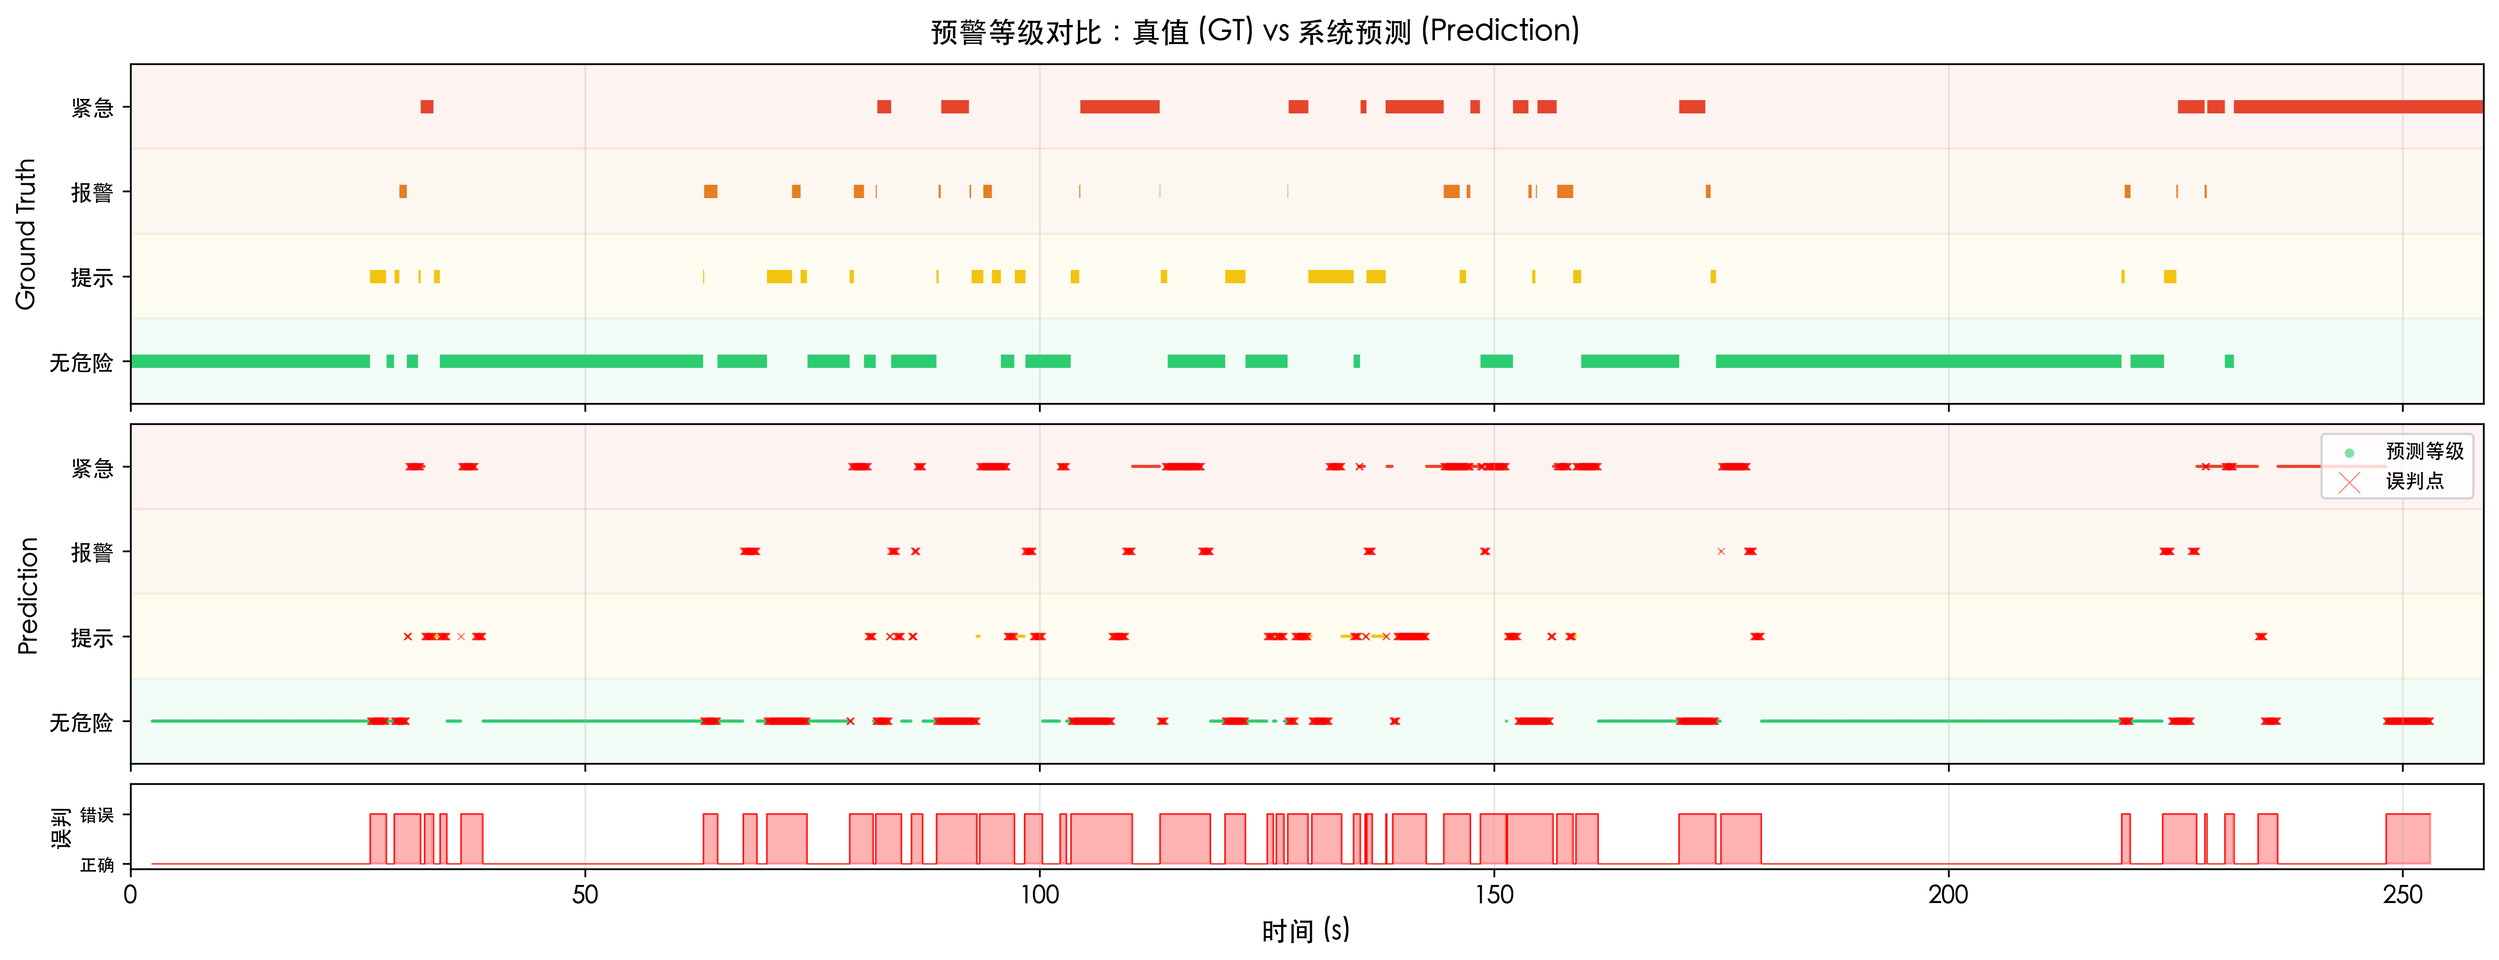
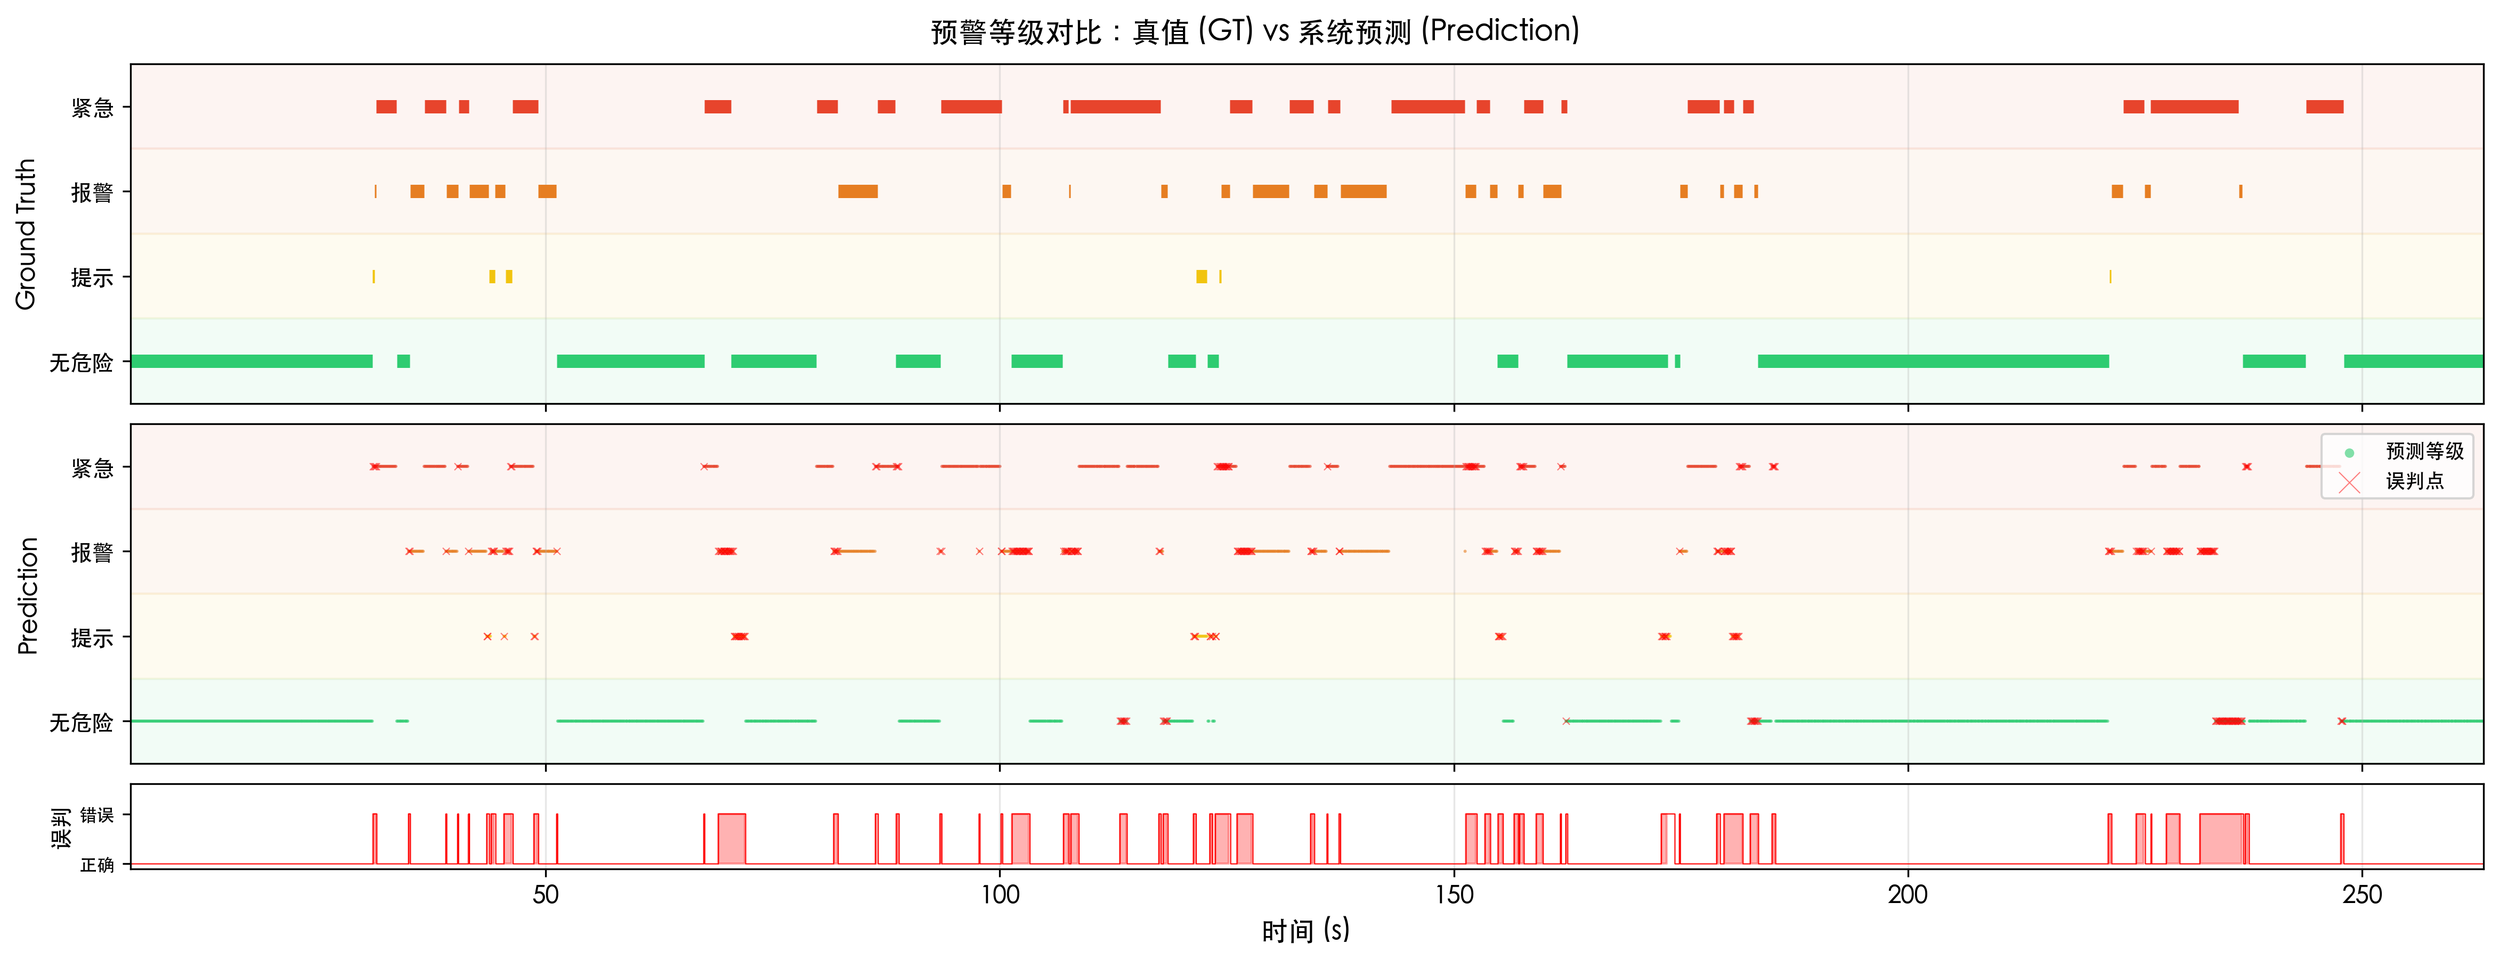
5.3优化

diff --git a/data/chap05.tex b/data/chap05.tex
@@ -246,6 +246,7 @@ F1 分数 & 84.69\% \\
 \mathrm{MAE}=\frac{1}{T}\sum_{t=1}^{T}|\hat{y}_t-y_t|
 \label{eq:mae}
 \end{equation}
+其中，等级按危险程度依次编码为：无危险~=~0、提示~=~1、报警~=~2、紧急~=~3，$|\hat{y}_t-y_t|$ 即预测等级与真值等级之间的差值绝对值。
 
 \begin{table}[htbp]
 \centering
@@ -255,23 +256,23 @@ F1 分数 & 84.69\% \\
 \hline
 \textbf{指标项} & \textbf{提示级(5.0m)} & \textbf{报警级(3.0m)} & \textbf{紧急级(1.0m)} \\
 \hline
-精确率（Precision）  & 0.5727 & 0.9012 & 0.9466 \\
-召回率（Recall）  & 0.3937 & 0.8111 & 0.9300 \\
-F1分数  & 0.4667 & 0.8538 & 0.9383 \\
+精确率（Precision）  & 57.27\% & 90.12\% & 94.66\% \\
+召回率（Recall）  & 39.37\% & 81.11\% & 93.00\% \\
+F1分数  & 46.67\% & 85.38\% & 93.83\% \\
 \hline
-分级准确率（Acc） & \multicolumn{3}{c}{0.9248} \\
-误报率（FPR） & \multicolumn{3}{c}{0.0276} \\
-漏报率（FNR） & \multicolumn{3}{c}{0.0476} \\
+分级准确率（Acc） & \multicolumn{3}{c}{92.48\%} \\
+误报率（FPR） & \multicolumn{3}{c}{2.76\%} \\
+漏报率（FNR） & \multicolumn{3}{c}{4.76\%} \\
 平均绝对误差（MAE） & \multicolumn{3}{c}{0.1232} \\
 \hline
 \end{tabular*}
 \end{table}
 
-各预警等级的判级结果统计如表~\ref{tab:ch5_d4a_static_warning}所示。从表中可以看出，静态阈值判级的整体分级准确率达0.9248，超过92\%的帧实现了精确分级，说明基于距离阈值的三级静态判级框架在真实工况下表现有效。紧急级的精确率达0.9466、召回率达0.9300、F1分数达0.9383，均为三个等级中最优，在近距离高危场景中判级置信度最高。报警级的精确率达0.9012、召回率达0.8111且F1分数达0.8538，同样处于较高水平，中间阈值判级在多数情况下能够稳定反映真实的净空状态。提示级F1为0.4667，在四个等级中相对最低，召回率仅0.3937，说明系统对提示等级的识别存在遗漏。
+各预警等级的判级结果统计如表~\ref{tab:ch5_d4a_static_warning}所示。从表中可以看出，静态阈值判级的整体分级准确率达92.48\%，说明基于距离阈值的三级静态判级框架在真实工况下表现有效。紧急级的精确率达94.66\%、召回率达93.00\%、F1分数达93.83\%，均为三个等级中最优，在近距离高危场景中判级置信度最高。报警级的精确率达90.12\%、召回率达81.11\%且F1分数达85.38\%，同样处于较高水平，中间阈值判级在多数情况下能够稳定反映真实的净空状态。提示级F1为46.67\%，在四个等级中相对最低，召回率仅39.37\%，说明系统对提示等级的识别存在遗漏。
 
-从安全预警的实际需求出发，漏报率需优先关注。系统总漏报率仅0.0476，误报率为0.0276，两者均处于低位。进一步查看混淆矩阵（表~\ref{tab:ch5_d4b_confusion_matrix}），误报主要来自：当真值为无危险时，有44帧被误判为提示级（占无危险真值样本的2.03\%），另有26帧被误判为紧急级（占1.20\%），均属小概率事件，对现场作业影响有限。漏报方面，提示级向无危险的降级共计91帧，占提示级真值样本的56.88\%，是漏报的主要来源。提示级作为三级判据中阈值最小、优先级最低的等级，其物理边界在连续净空变化中最为模糊，部分处于临界状态的净空值被系统判定为无危险属正常波动。紧急级向更低估级合计44帧，占紧急级真值样本的7.00\%，在真实施工工况的遮挡与点云缺失条件下处于合理可控范围。
+从安全预警的实际需求出发，漏报率需优先关注。系统总漏报率仅4.76\%，误报率为2.76\%，两者均处于低位。进一步查看混淆矩阵（表~\ref{tab:ch5_d4b_confusion_matrix}），误报主要来自：当真值为无危险时，有44帧被误判为提示级（占无危险真值样本的2.03\%），另有26帧被误判为紧急级（占1.20\%），均属小概率事件，对现场作业影响有限。漏报方面，提示级向无危险的降级共计91帧，占提示级真值样本的56.88\%，是漏报的主要来源。提示级作为三级判据中阈值最小、优先级最低的等级，其物理边界在连续净空变化中最为模糊，部分处于临界状态的净空值被系统判定为无危险属正常波动。紧急级向更低估级合计44帧，占紧急级真值样本的7.00\%，在真实施工工况的遮挡与点云缺失条件下处于合理可控范围。
 
-提示级的低召回率在混淆矩阵中有明确体现：其真阳性仅为63帧，假阴性合计97（91+6+0），近六成的提示级真值帧被预测为无危险。提示级（5.0~m）在三级净空判据中阈值最大、优先级最低，在连续净空变化中处于最外围的边界位置，部分处于5.0~m临界区域的净空值在测量噪声影响下被判为无危险属正常波动范围。整体分级有序误差MAE仅为0.1232，平均预测等级与真值等级之间的偏差不足0.13个等级，整体判级的有序一致性较好。
+提示级的低召回率在混淆矩阵中有明确体现：其真阳性仅为63帧，假阴性合计97（91+6+0），近六成的提示级真值帧被预测为无危险。提示级在三级净空判据中阈值最大、优先级最低，在连续净空变化中处于最外围的边界位置，部分处于5.0~m临界区域的净空值在测量噪声影响下被判为无危险属正常波动范围。整体分级有序误差MAE仅为0.1232，平均预测等级与真值等级之间的偏差不足0.13个等级，整体判级的有序一致性较好。
 
 \begin{table}[H]
 \centering
@@ -289,7 +290,7 @@ F1分数  & 0.4667 & 0.8538 & 0.9383 \\
 \end{tabular*}
 \end{table}
 
-为直观展示判级结果在真实场景中的对应关系，将各预警等级的空间分布以可视化方式呈现。按照距离阈值分别将识别出的预警点做了标识，用颜色区分预警的等级，形成了预警等级圈。同时，在结果中可以看到，由于流程中滤除了地面点云，所以地面并没有出现预警点。静态预警真实场景与预警效果示意如图~\ref{fig:ch5_static_warning_effect}所示。
+为直观展示判级结果在真实场景中的对应关系，将各预警等级的空间分布以可视化方式呈现。按照距离阈值分别将识别出的预警点做了标识，用颜色区分预警的等级，形成了预警等级圈。静态预警真实场景与预警效果示意如图~\ref{fig:ch5_static_warning_effect}所示。在结果中可以看到，由于流程中滤除了地面点云，所以地面并没有出现预警点。
 
 \begin{figure}[htbp]
 \centering
@@ -336,15 +337,9 @@ F1分数  & 0.4667 & 0.8538 & 0.9383 \\
 
 \subsection{动态目标趋势预测与相向运动预警验证}\label{subsec_ch5_dynamic_warning}
 
-动态预警实验用于验证趋势预测与风险升级机制能否提供有效提前量。当前配置采用动态净空阈值5.0~m、3.0~m、1.0~m，对应TTC阈值6.0~s、3.0~s、1.5~s；相向运动通过速度夹角余弦阈值$-0.2$触发升级，预测时域为2.0~s。该参数组反映了当前实现对“短时危险演化”的保守响应策略。
+动态预警实验用于验证趋势预测与风险升级机制能否提供有效提前量。当前配置采用动态净空阈值5.0~m、3.0~m、1.0~m，对应TTC阈值6.0~s、3.0~s、1.5~s；相向运动通过速度夹角余弦阈值$-0.2$触发升级，预测时域为2.0~s。分级准确率、误报率与漏报率的定义与式\eqref{eq:acc}—\eqref{eq:mdr}一致。
 
-本节重点考察动态判级准确性。若相向接近场景能在误报可控的前提下实现更早触发，则可证明趋势项对风险识别具有实际增益。
-
-为量化动态预警有效性，本节从判级准确性维度建立评价指标。分级准确率、误报率与漏报率的口径与静态判级一致：真值等级 $y_t$ 由动态净空与TTC联合阈值确定，系统输出等级为 $\hat{y}_t$，采用式\eqref{eq:acc}—\eqref{eq:mdr}分别计算 $\mathrm{Acc}$、$\mathrm{FPR}$、$\mathrm{FNR}$，其中 $T$ 为视频总帧数。
-
-动态趋势判级的整体分级准确率达86.65\%，在动态目标接近场景中实现了高精度的风险等级判定。紧急级的精确率（0.9069）保持最高水平，F1分数达0.8228，在近距离高危场景中动态判级具备高置信度，系统判为紧急的帧中有超过90\%确实属于紧急等级。报警级的精确率（0.6200）与召回率（0.8319）均较优，F1为0.7105，中间等级在动态净空计算中具有较为明确的物理边界。提示级F1为0.3191，精确率仅0.2419，系统判为提示的帧中只有不到四分之一属于真正的提示等级，提示级的误报主要来源于报警与紧急等级向提示级的降级。
-
-动态判级的误报率为5.35\%，漏报率为8.00\%，两者均处于低位。漏报率略高于误报率，系统在不确定情况下略微倾向于保守策略（宁可误报也不遗漏危险），此偏好在安全关键应用中是可取的。分级有序误差MAE仅为0.2002，平均预测偏差不足四分之一等级，动态趋势信息对提升判级有序一致性具有显著贡献。进一步查看混淆矩阵（表~\ref{tab:ch5_d5b_confusion_matrix}），漏报的主要来源为紧急级被降级为报警级（136帧），占紧急级真值样本的18.47\%，属于相邻等级间的单级偏差，不反映系统对该等级危险的完全遗漏。上述表现主要归因于动态风险融合机制中TTC与速度方向的引入。在相向接近场景下，系统能够基于短时预测提前识别危险演化趋势，在吊装构件尚未达到最小净空距离时即触发预警，实现了预警准确性与及时性的有效统一。基于运动趋势的动态风险升级机制能够在真实工况下实现精准可靠的判级，证明了趋势项对风险识别的实际增益。
+判级结果如表~\ref{tab:ch5_d5_dynamic_warning}所示。整体分级准确率达86.65\%，误报率5.35\%，漏报率8.00\%，三者均处于可控范围。紧急级F1为82.28\%，在近距离高危场景中保持了较高的判级置信度；提示级F1为31.91\%，主要受低精确率（24.19\%）拖累，表明该等级存在部分误报。
 
 \begin{table}[htbp]
 \centering
@@ -354,19 +349,19 @@ F1分数  & 0.4667 & 0.8538 & 0.9383 \\
 \hline
 \textbf{指标项} & \textbf{提示级(5.0m)} & \textbf{报警级(3.0m)} & \textbf{紧急级(1.0m)} \\
 \hline
-精确率（Precision） & 0.2419 & 0.6200 & 0.9069 \\
-召回率（Recall） & 0.4688 & 0.8319 & 0.7531 \\
-F1分数 & 0.3191 & 0.7105 & 0.8228 \\
+精确率（Precision） & 24.19\% & 62.00\% & 90.69\% \\
+召回率（Recall） & 46.88\% & 83.19\% & 75.31\% \\
+F1分数 & 31.91\% & 71.05\% & 82.28\% \\
 \hline
-分级准确率（Acc） & \multicolumn{3}{c}{0.8665} \\
-误报率（FPR） & \multicolumn{3}{c}{0.0535} \\
-漏报率（FNR） & \multicolumn{3}{c}{0.0800} \\
+分级准确率（Acc） & \multicolumn{3}{c}{86.65\%} \\
+误报率（FPR） & \multicolumn{3}{c}{5.35\%} \\
+漏报率（FNR） & \multicolumn{3}{c}{8.00\%} \\
 平均绝对误差（MAE） & \multicolumn{3}{c}{0.2002} \\
 \hline
 \end{tabular*}
 \end{table}
 
-表~\ref{tab:ch5_d5b_confusion_matrix} 进一步给出了上述判级结果的混淆矩阵分布，给出了各等级误报与漏报的具体来源。
+表~\ref{tab:ch5_d5b_confusion_matrix} 进一步给出各等级误报与漏报的具体来源。漏报以紧急级向报警级的单级偏移为主，共136帧，占紧急级样本的18.47\%，未出现对高危场景的完全遗漏，且漏报率略高于误报率，反映了系统在模糊工况下的保守偏好。上述表现与TTC和速度方向等动态信息的引入密切相关，在相向接近场景中，运动状态信息使判级结果更贴近真实危险程度，验证了趋势项对风险识别的实际增益。
 
 \begin{table}[htbp]
 \centering
@@ -384,23 +379,26 @@ F1分数 & 0.3191 & 0.7105 & 0.8228 \\
 \end{tabular*}
 \end{table}
 
-表~\ref{tab:ch5_dynamic_warning_effect} 展示了系统在动态相向接近工况下的预警可视化效果。图中吊装构件以包络圆柱形式呈现，风险等级文字着色根据当前融合风险等级渲染（黄色对应提示、橙色对应报警、红色对应紧急），被检测到的动态目标以红色包围框形式显示并标注轨迹 ID 与运动方向。当动态目标与吊装构件之间的平面净空或 TTC 指标进入预设阈值区间时，系统即触发相应等级的预警着色，风险区域沿接近方向逐渐加深。该图与图~\ref{fig:ch5_dynamic_temporal_comparison} 的时序对照互为补充，分别从可视化效果与帧级一致性方面验证动态预警机制的有效性。
+表~\ref{tab:ch5_dynamic_warning_effect} 展示了系统在动态相向接近工况下的预警可视化效果。吊装构件以包络圆柱形式呈现，风险等级文字根据当前融合风险等级着色；被检测到的动态目标以红色包围框显示并标注轨迹 ID 与运动方向。当动态目标与吊装构件之间的平面净空或 TTC 指标进入预设阈值区间时，系统即触发相应等级的预警着色，风险区域沿接近方向逐渐加深。
 
 \begin{table}[H]
 \centering
 \caption{动态目标趋势预测与相向运动预警效果示例}
 \label{tab:ch5_dynamic_warning_effect}
-\begin{tabular}{@{}cc@{}}
+\begin{tabular}{>{\centering\arraybackslash}p{2em}@{\hspace{0.1em}}cc}
 \hline
-\textbf{真实场景} & \textbf{预警示意} \\
+\textbf{时刻} & \textbf{真实场景} & \textbf{预警示意} \\
 \hline
-\noalign{\vskip 1em}
-\includegraphics[height=4.2cm]{real_1.png} &
-\includegraphics[height=4.2cm]{warning_1.png} \\[4pt]
-\includegraphics[height=4.2cm]{real_2.png} &
-\includegraphics[height=4.2cm]{warning_2.png} \\[4pt]
-\includegraphics[height=4.2cm]{real_3.png} &
-\includegraphics[height=4.2cm]{warning_3.png} \\
+\noalign{\vskip 0.5em}
+\raisebox{0.5\dimexpr4.1cm-\height\relax}{t$_0$} &
+\includegraphics[height=4.1cm]{real_1.png} &
+\includegraphics[height=4.1cm]{warning_1.png} \\[4pt]
+\raisebox{0.5\dimexpr4.1cm-\height\relax}{t$_1$} &
+\includegraphics[height=4.1cm]{real_2.png} &
+\includegraphics[height=4.1cm]{warning_2.png} \\[4pt]
+\raisebox{0.5\dimexpr4.1cm-\height\relax}{t$_2$} &
+\includegraphics[height=4.1cm]{real_3.png} &
+\includegraphics[height=4.1cm]{warning_3.png} \\
 \hline
 \end{tabular}
 \end{table}
@@ -410,26 +408,41 @@ F1分数 & 0.3191 & 0.7105 & 0.8228 \\
 \centering
 \caption{动态目标趋势预测与相向运动预警效果示例（续）}
 \label{tab:ch5_dynamic_warning_effect_cont}
-\begin{tabular}{@{}cc@{}}
+\begin{tabular}{>{\centering\arraybackslash}p{2em}@{\hspace{0.1em}}cc}
 \hline
-\textbf{真实场景} & \textbf{预警示意} \\
+\textbf{时刻} & \textbf{真实场景} & \textbf{预警示意} \\
 \hline
-\noalign{\vskip 1em}
-\includegraphics[height=4.2cm]{real_4.png} &
-\includegraphics[height=4.2cm]{warning_4.png} \\[4pt]
-\includegraphics[height=4.2cm]{real_5.png} &
-\includegraphics[height=4.2cm]{warning_5.png} \\[4pt]
-\includegraphics[height=4.2cm]{real_6.png} &
-\includegraphics[height=4.2cm]{warning_6.png} \\[4pt]
-\includegraphics[height=4.2cm]{real_7.png} &
-\includegraphics[height=4.2cm]{warning_7.png} \\[4pt]
-\includegraphics[height=4.2cm]{real_8.png} &
-\includegraphics[height=4.2cm]{warning_8.png} \\
+\noalign{\vskip 0.5em}
+\raisebox{0.5\dimexpr4.1cm-\height\relax}{t$_3$} &
+\includegraphics[height=4.1cm]{real_4.png} &
+\includegraphics[height=4.1cm]{warning_4.png} \\[4pt]
+\raisebox{0.5\dimexpr4.1cm-\height\relax}{t$_4$} &
+\includegraphics[height=4.1cm]{real_5.png} &
+\includegraphics[height=4.1cm]{warning_5.png} \\[4pt]
+\raisebox{0.5\dimexpr4.1cm-\height\relax}{t$_5$} &
+\includegraphics[height=4.1cm]{real_6.png} &
+\includegraphics[height=4.1cm]{warning_6.png} \\[4pt]
+\raisebox{0.5\dimexpr4.1cm-\height\relax}{t$_6$} &
+\includegraphics[height=4.1cm]{real_7.png} &
+\includegraphics[height=4.1cm]{warning_7.png} \\[4pt]
+\raisebox{0.5\dimexpr4.1cm-\height\relax}{t$_7$} &
+\includegraphics[height=4.1cm]{real_8.png} &
+\includegraphics[height=4.1cm]{warning_8.png} \\
 \hline
 \end{tabular}
+\parbox{\textwidth}{\vspace{0.5em}\small\raggedright 注：t$_0$–t$_7$ 共 8 个时刻，相邻时刻间隔 1~s。}
 \end{table}
 
-图~\ref{fig:ch5_dynamic_temporal_comparison} 以帧级时序展示动态判级的真值与预测等级对照。图中上子图为基于动态净空与 TTC 联合阈值计算的真值等级区间，中子图为系统输出的预测等级散点，下子图为误判指示条。与静态判级的时序对照（图~\ref{fig:ch5_static_temporal_comparison}）相比，动态判级的误判分布更为稀疏，等级过渡边界的抖动幅度更小，这与动态判级 MAE~=~0.3178 优于静态判级 MAE~=~0.5530 的量化结果一致。TTC 和预测净空的引入使动态判级在等级过渡区保持了更好的有序一致性，验证了趋势项对判级稳定性的实际增益。
+图~\ref{fig:ch5_opposing_warning_timeline} 展示了相向运动工况下的提前预警时序对比。被监测目标以约~1~m/s 的速率逼近吊物，当前距离如蓝实线所示呈单调下降趋势。本文动态融合判据中的“预测距离”分量如橙虚线所示，基于~2~s 视野的轨迹外推使其先于真实距离跨越报警与紧急阈值：相比纯距离基线，报警级提前~0.70~s、紧急级提前~1.60~s 触发预警，为操作人员争取了额外的响应时间窗口，验证了第~\ref{subsec_ch4_risk_upgrade}~节动态融合判据在相向接近工况下的提前预警能力。
+
+\begin{figure}[H]
+\centering
+\includegraphics[width=0.99\textwidth]{相向运动工况-提前预警时序对比.png}
+\caption{相向运动工况下提前预警时序对比}
+\label{fig:ch5_opposing_warning_timeline}
+\end{figure}
+
+图~\ref{fig:ch5_dynamic_temporal_comparison} 以帧级时序展示动态判级的真值与预测等级对照，其结构与图~\ref{fig:ch5_static_temporal_comparison}相同。预测等级在多数时段与真值吻合，误判集中在等级过渡边界附近且多为相邻等级间的单级偏移。MAE仅为0.2002，表明动态判级具有较好的有序一致性，TTC与预测净空的引入在等级过渡区保持了平稳的判级过渡。
 
 \begin{figure}[H]
 \centering
